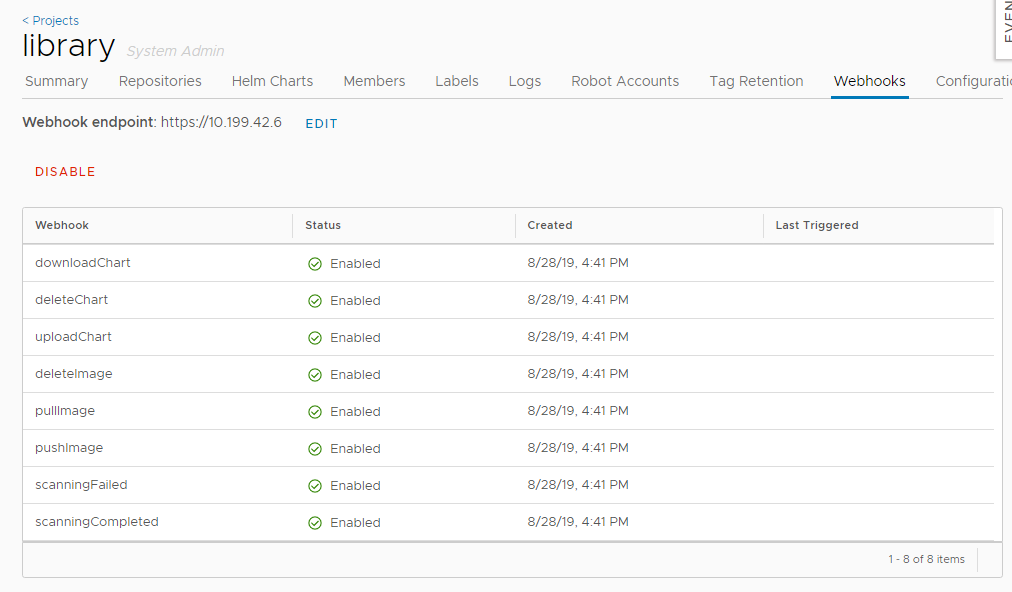
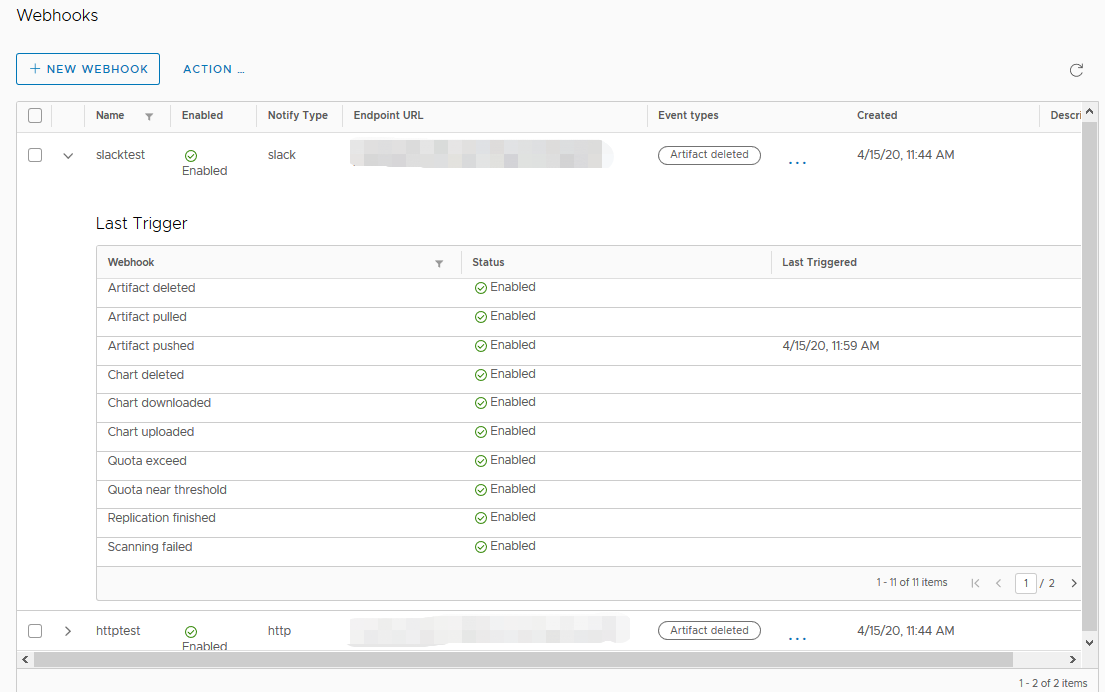
Update webhook user guide

diff --git a/docs/working-with-projects/project-configuration/configure-webhooks.md b/docs/working-with-projects/project-configuration/configure-webhooks.md
@@ -9,54 +9,87 @@ The action that is taken upon receiving a notification from a Harbor project dep
 
 ### Supported Events
 
-You can define one webhook endpoint per project. Webhook notifications provide information about events in JSON format and are delivered by `HTTP` or `HTTPS POST` to an existing webhhook endpoint URL that you provide. The following table describes the events that trigger notifications and the contents of each notification.
+You can define multiple webhook endpoints per project. Harbor supports two kinds of endpoints currently,  `HTTP`  and `SLACK`. Webhook notifications provide information about events in JSON format and are delivered by `HTTP` or `HTTPS POST` to an existing webhhook endpoint URL or Slack address that you provide. The following table describes the events that trigger notifications and the contents of each notification.
 
 |Event|Webhook Event Type|Contents of Notification|
 |---|---|---|
-|Push image to registry|`IMAGE PUSH`|Repository namespace name, repository name, resource URL, tags, manifest digest, image name, push time timestamp, username of user who pushed image|
-|Pull manifest from registry|`IMAGE PULL`|Repository namespace name, repository name, manifest digest, image name, pull time timestamp, username of user who pulled image|
-|Delete manifest from registry|`IMAGE DELETE`|Repository namespace name, repository name, manifest digest, image name, image size, delete time timestamp, username of user who deleted image|
-|Upload Helm chart to registry|`CHART PUSH`|Repository name, chart name, chart type, chart version, chart size, tag, timestamp of push, username of user who uploaded chart|
-|Download Helm chart from registry|`CHART PULL`|Repository name, chart name, chart type, chart version, chart size, tag, timestamp of push, username of user who pulled chart|
-|Delete Helm chart from registry|`CHART DELETE`|Repository name, chart name, chart type, chart version, chart size, tag, timestamp of delete, username of user who deleted chart|
-|Image scan completed|`IMAGE SCAN COMPLETED`|Repository namespace name, repository name, tag scanned, image name, number of critical issues, number of major issues, number of minor issues, last scan status, scan completion time timestamp, vulnerability information (CVE ID, description, link to CVE, criticality, URL for any fix), username of user who performed scan|
-|Image scan failed|`IMAGE SCAN FAILED`|Repository namespace name, repository name, tag scanned, image name, error that occurred, username of user who performed scan|
-|Project quota exceeded|`PROJECT QUOTA EXCEED`|Repository namespace name, repository name, tags, manifest digest, image name, push time timestamp, username of user who pushed image|
+|Push artifact to registry|`PUSH_ARTIFACT`|Repository namespace name, repository name, resource URL, tags, manifest digest, artifact name, push time timestamp, username of user who pushed artifact|
+|Pull artifact from registry|`PULL_ARTIFACT`|Repository namespace name, repository name, manifest digest, artifact name, pull time timestamp, username of user who pulled artifact|
+|Delete artifact from registry|`DELETE_ARTIFACT`|Repository namespace name, repository name, manifest digest, artifact name, artifact size, delete time timestamp, username of user who deleted image|
+|Upload Helm chart to chartMuseum|`UPLOAD_CHART`|Repository name, chart name, chart type, chart version, chart size, tag, timestamp of push, username of user who uploaded chart|
+|Download Helm chart from chartMuseum|`DOWNLOAD_CHART`|Repository name, chart name, chart type, chart version, chart size, tag, timestamp of push, username of user who pulled chart|
+|Delete Helm chart from chartMuseum|`DELETE_CHART`|Repository name, chart name, chart type, chart version, chart size, tag, timestamp of delete, username of user who deleted chart|
+|Image scan completed|`SCANNING_COMPLETED`|Repository namespace name, repository name, tag scanned, image name, number of critical issues, number of major issues, number of minor issues, last scan status, scan completion time timestamp, vulnerability information (CVE ID, description, link to CVE, criticality, URL for any fix), username of user who performed scan|
+|Image scan failed|`SCANNING_FAILED`|Repository namespace name, repository name, tag scanned, image name, error that occurred, username of user who performed scan|
+|Project quota exceeded|`QUOTA_EXCEED`|Repository namespace name, repository name, tags, manifest digest, artifact name, push time timestamp, username of user who pushed artifact|
+|Project quota near threshold|`QUOTA_WARNING`|Repository namespace name, repository name, tags, manifest digest, artifact name, push time timestamp, username of user who pushed artifact|
+|Artifact replication finished|`REPLICATION`|Repository namespace name, repository name, tags, manifest digest, artifact name, push time timestamp, username of user who trigger the replication|
 
-#### JSON Payload Format
+#### Payload Format
 
-The webhook notification is delivered in JSON format. The following example shows the JSON notification for a push image event:
+The webhook notification is delivered in JSON format. The following example shows the JSON notification for a push artifact event when using `HTTP` kind endpoint:
 
 ```json
 {
-  "event_type": "pushImage",
-  "events": [
-    {
-      "project": "prj",
-      "repo_name": "repo1",
-      "tag": "latest",
-      "full_name": "prj/repo1",
-      "trigger_time": 158322233213,
[1 lines of base64/hex data omitted]
-      "project_type": "Private"
+	"type": "PUSH_ARTIFACT",
+	"occur_at": 1586922308,
+	"operator": "admin",
+	"event_data": {
+		"resources": [{
+			"digest": "sha256:8a9e9863dbb6e10edb5adfe917c00da84e1700fa76e7ed02476aa6e6fb8ee0d8",
+			"tag": "latest",
+			"resource_url": "hub.harbor.com/test-webhook/debian:latest"
+		}],
+		"repository": {
+			"date_created": 1586922308,
+			"name": "debian",
+			"namespace": "test-webhook",
+			"repo_full_name": "test-webhook/debian",
+			"repo_type": "private"
+		}
+	}
+}
+```
+when you select the Slack type, and fill a Slack incoming webhook URL as endpoint, the message you received in Slack will be like,
+```json
+Harbor webhook events
+event_type: PUSH_ARTIFACT
+occur_at: April 15th at 11:59 AM
+operator: admin
+event_data:
+{
+    "resources": [
+        {
+            "digest": "sha256:8a9e9863dbb6e10edb5adfe917c00da84e1700fa76e7ed02476aa6e6fb8ee0d8",
+            "tag": "latest",
+            "resource_url": "hub.harbor.com/test-webhook/debian:latest"
+        }
+    ],
+    "repository": {
+        "date_created": 1586922308,
+        "name": "debian",
+        "namespace": "test-webhook",
+        "repo_full_name": "test-webhook/debian",
+        "repo_type": "private"
     }
-  ]
 }
 ```
 
 ### Webhook Endpoint Recommendations
 
-The endpoint that receives the webhook should ideally have a webhook listener that is capable of interpreting the payload and acting upon the information it contains. For example, running a shell script.
+There are two kinds of endpoints.  For `HTTP` the endpoint that receives the webhook should ideally have a webhook listener that is capable of interpreting the payload and acting upon the information it contains. For example, running a shell script.
+
+And for Slack endpoint, you should follow the [guide of Slack incoming webhook](https://api.slack.com/messaging/webhooks).
 
 ### Example Use Cases
 
 You can configure your continuous integration and development infrastructure so that it performs the following types of operations when it receives a webhook notification from Harbor.
 
-- Image push: 
+- Artifact push: 
   - Trigger a new build immediately following a push on selected repositories or tags.
-  - Notify services or applications that use the image that a new image is available and pull it.
-  - Scan the image using Clair.
-  - Replicate the image to remote registries.
+  - Notify services or applications that use the artifact that a new artifact is available and pull it.
+  - Scan the artifact using Clair.
+  - Replicate the artifact to remote registries.
 - Image scanning:
   - If a vulnerability is found, rescan the image or replicate it to another registry.
   - If the scan passes, deploy the image.
@@ -64,24 +97,30 @@ You can configure your continuous integration and development infrastructure so 
 ### Configure Webhooks
 
 1. Log in to the Harbor interface with an account that has at least project administrator privileges.
+
 1. Go to **Projects**, select a project, and select **Webhooks**.
 
     ![Webhooks option](../../../img/webhooks1.png)
 
+1. Select notify type `HTTP`, so the webhook will be send to a HTTP endpoint.
+
+1. Select events that you want to subscribe.
+
 1. Enter the URL for your webhook endpoint listener.
+
 1. If your webhook listener implements authentication, enter the authentication header. 
+
 1. To implement `HTTPS POST` instead of `HTTP POST`, select the **Verifiy Remote Certficate** check box.
 
     ![Webhook URL](../../../img/webhooks2.png)
 
 1. Click **Test Endpoint** to make sure that Harbor can connect to the listener.
+
 1. Click **Continue** to create the webhook.
 
-When you have created the webhook, you see the status of the different notifications and the timestamp of the last time each notification was triggered. You can click **Disable** to disable notifications. 
+When you have created the webhook, you can click on the arrow at the left end to see the status of the different notifications and the  timestamp of the last time each notification was triggered. You can also manage the webhook by clicking the drop list button of `ACTION...` . 
 
-{{< note >}}
-You can only disable and reenable all notifications. You cannot disable and enable selected notifications.
-{{< /note >}}
+You can modify the webhook, you can also `Enable` or `Disable` the webhook.
 
 ![Webhook Status](../../../img/webhooks3.png)
 
